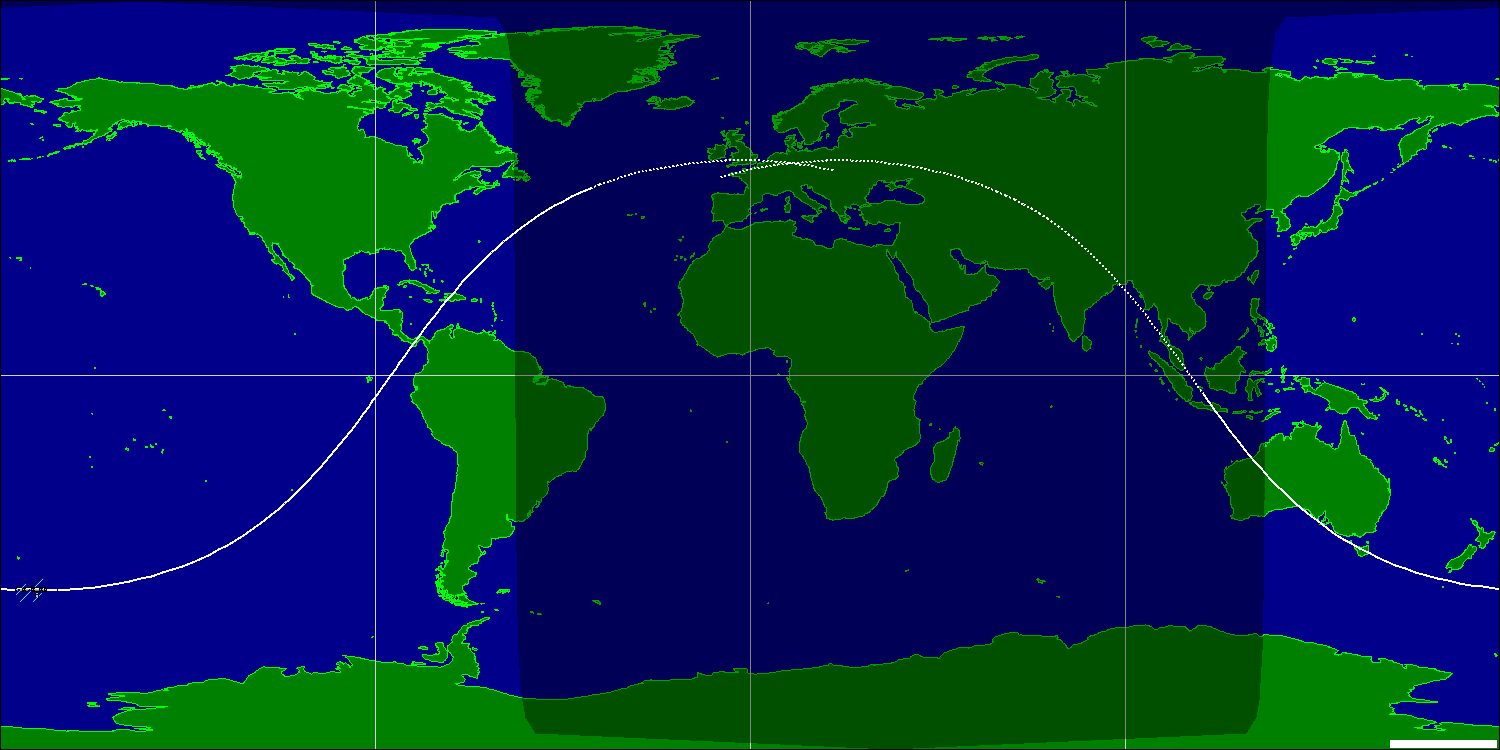
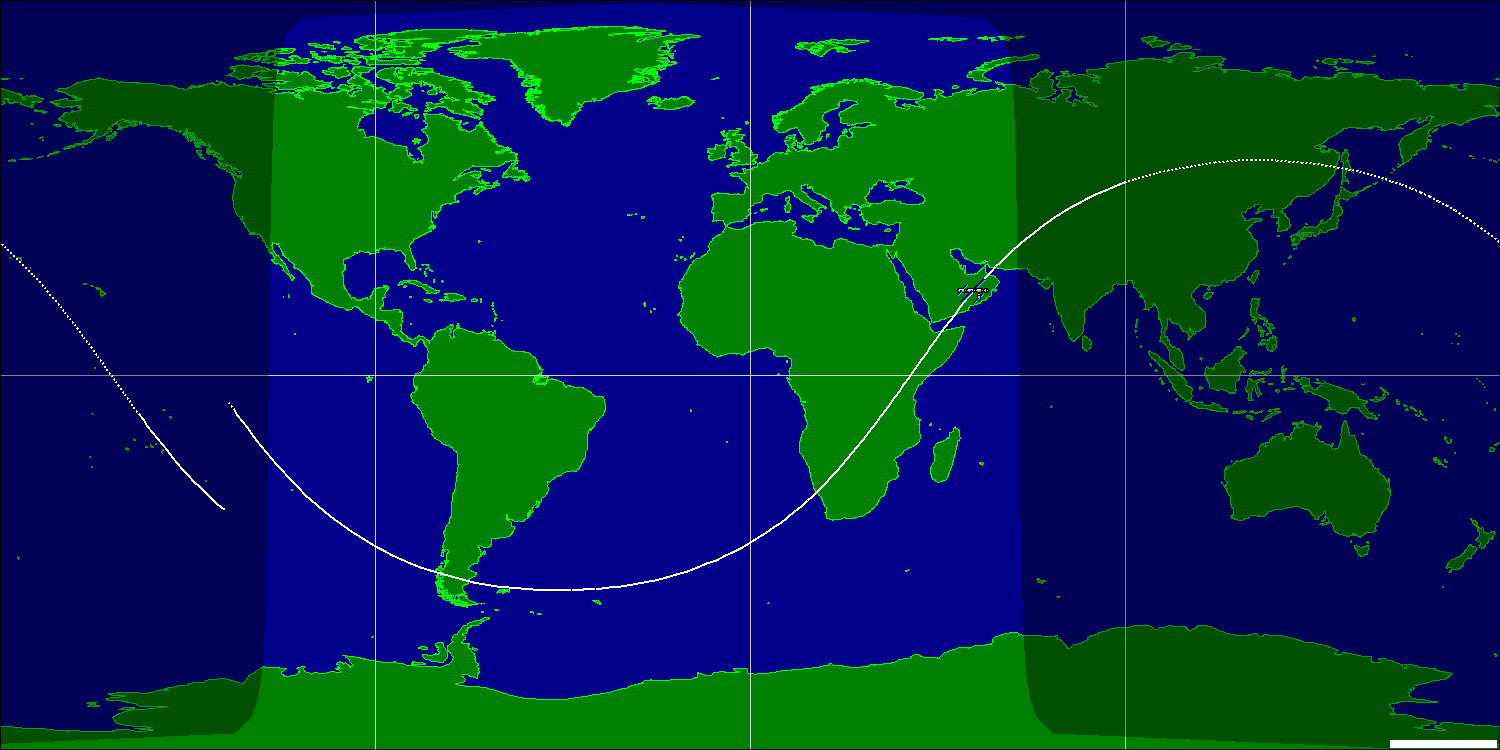
Updated values and put the correct times in the moonrise/set and sunrise/set columns

diff --git a/Ad_Board/SITE/Display_V2.html b/Ad_Board/SITE/Display_V2.html
@@ -56,7 +56,7 @@
       <div class="blockTwo">
         <div class="weather tables fade">
           <p class="title">Current weather <br/> in Kielder</p>
-          <img id="weatherIcon" src="IMG/metofficeicons/metimg0.svg"/>
+          <img id="weatherIcon" src="IMG/metofficeicons/metimg1.svg"/>
 
 
           <table id="weatherTable">
@@ -67,10 +67,10 @@
               <th>Percipitation Probablity</th>
             </tr>
             <tr>
-              <td>8&deg;C (6 &deg;C)</td>
-              <td>9 mph (20)</td>
-              <td>WNW</td>
-              <td>5%</td>
+              <td>8&deg;C (8 &deg;C)</td>
+              <td>4 mph (9)</td>
+              <td>W</td>
+              <td>0%</td>
             </tr>
           </table>
 
@@ -84,18 +84,18 @@
             <tr>
               <td>19:04:50 BST</td>
               <td>19:21:27 BST</td>
-              <td>06:59:30 BST</td>
               <td>07:00:53 BST</td>
+              <td>06:59:30 BST</td>
             </tr>
           </table>
         </div>
 
         <div class="moon tables fade">
           <p class="title">Tonights Moon</p>
-          <img id="moonImage" src="IMG/moonframes/newimage01142.jpg
+          <img id="moonImage" src="IMG/moonframes/newimage01158.jpg
 "/>
 
-          <p class="moonData">98.5% / Waxing Gibbous
+          <p class="moonData">99.6% / Full Moon
             <br/><br/>
             The Moon sets 12.1 hours after the sun
           </p>

diff --git a/Ad_Board/SITE/Python/siteScraper.py b/Ad_Board/SITE/Python/siteScraper.py
@@ -160,6 +160,11 @@ riseset = [("Sunrise", sunrise),("Sunset", sunset),("Moonrise",moonrise),("Moons
 riseset.sort(key=takeSecond)
 #print(riseset)
 
+#print(riseset[0][0]) #sunset
+#print(riseset[1][0]) #moonrise
+#print(riseset[2][0]) #moonset
+#print(riseset[3][0]) #sunrise
+
 
 
 #Code to pull back the weather
@@ -314,8 +319,8 @@ htmlFile.write(
             <tr>
               <td>'''+riseset[0][1].strftime("%H:%M:%S %Z")+'''</td>
               <td>'''+riseset[1][1].strftime("%H:%M:%S %Z")+'''</td>
-              <td>'''+riseset[2][1].strftime("%H:%M:%S %Z")+'''</td>
               <td>'''+riseset[3][1].strftime("%H:%M:%S %Z")+'''</td>
+              <td>'''+riseset[2][1].strftime("%H:%M:%S %Z")+'''</td>
             </tr>
           </table>
         </div>
